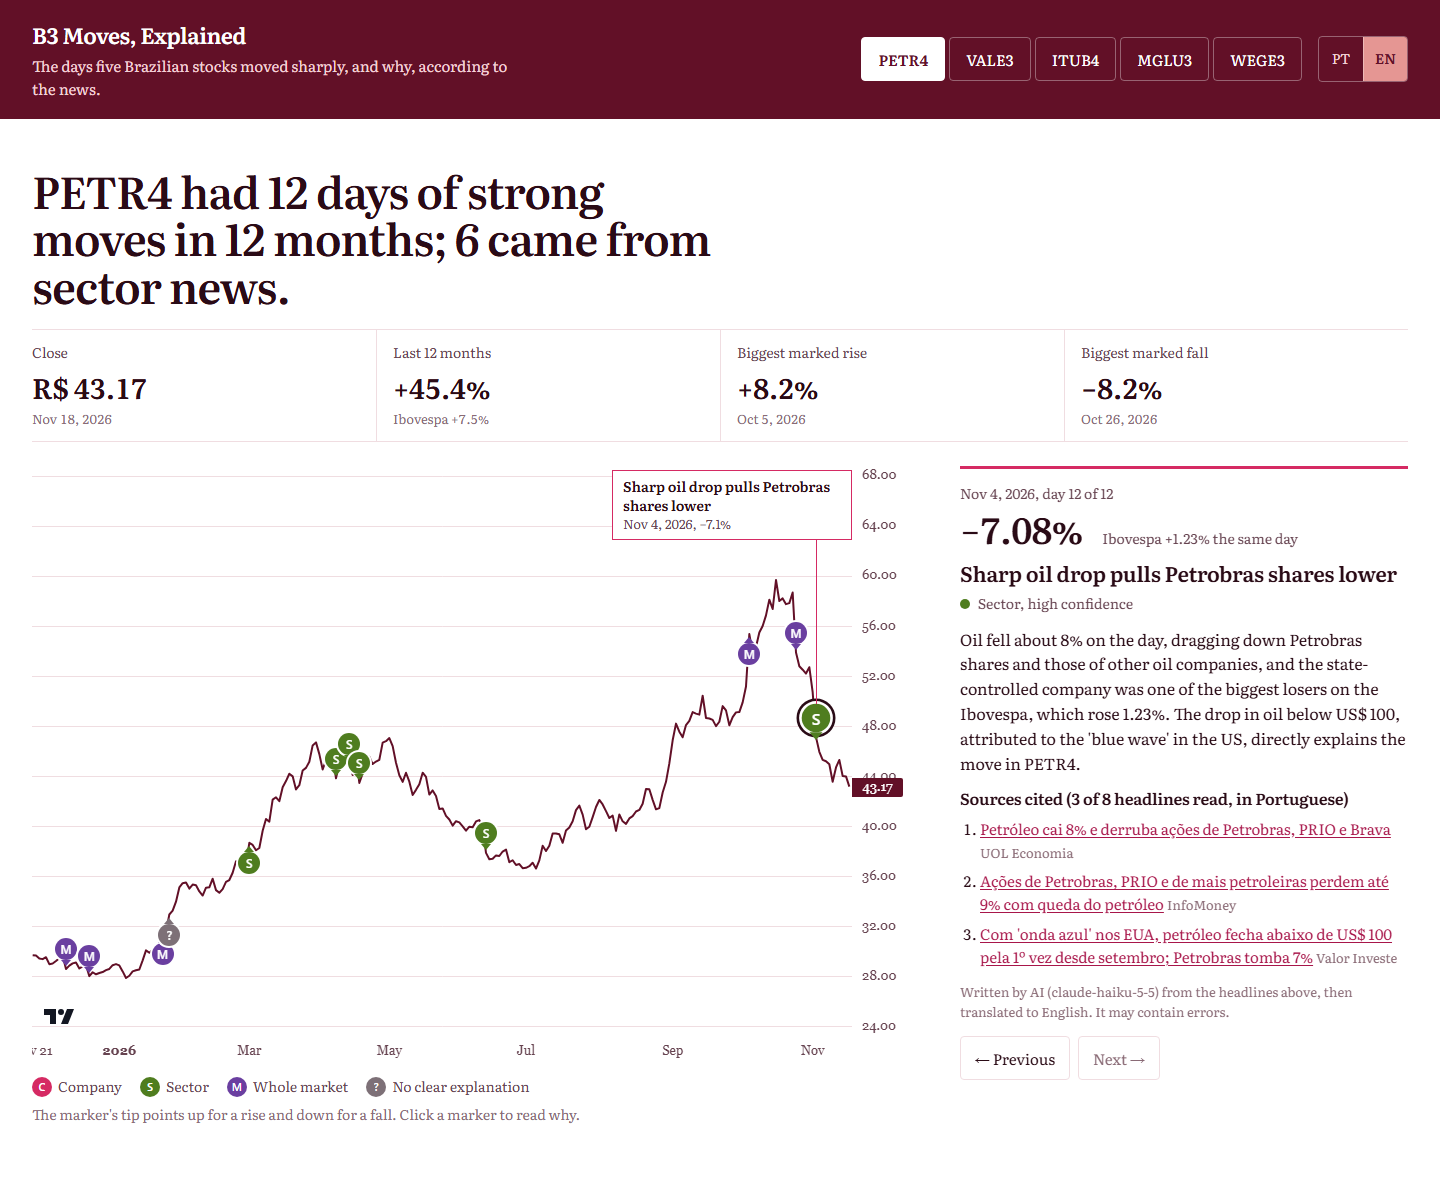
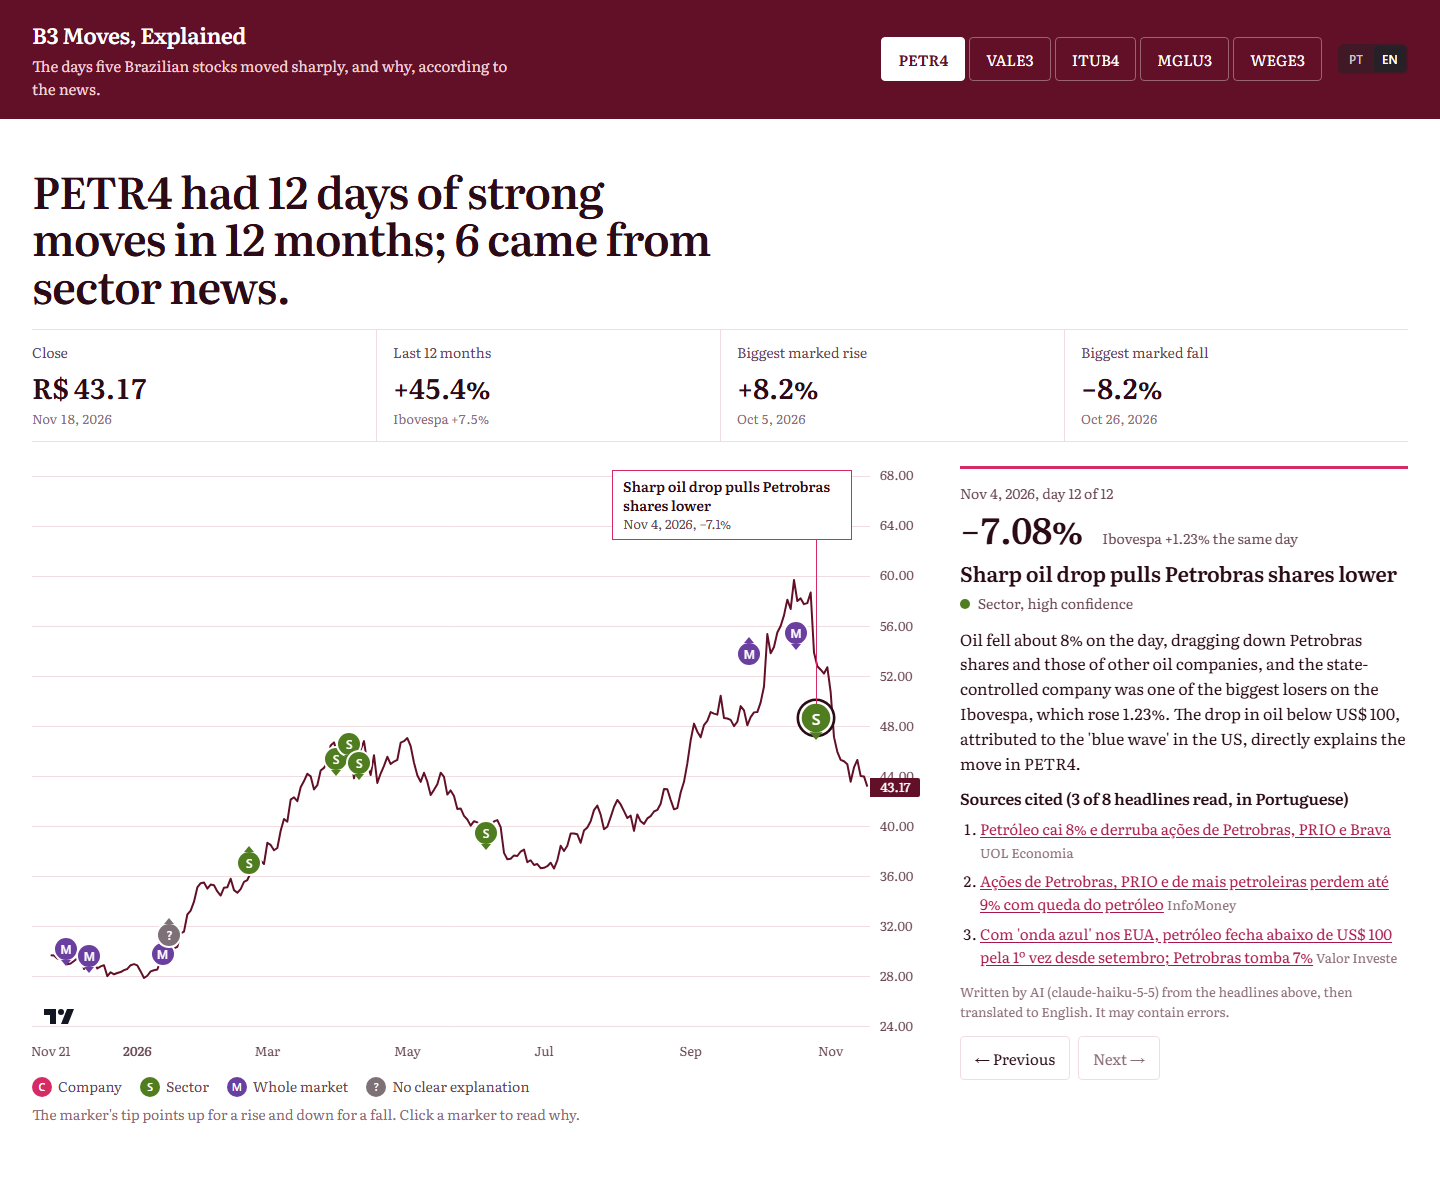
README: refresh screenshots, add stack line, translation script and cache busting

diff --git a/README.md b/README.md
@@ -4,6 +4,8 @@ Daily price charts of five B3 stocks where an AI marks the days with unusually s
 
 **Live site: [English](https://beapama.github.io/b3-explained-chart/?lang=en) · [Português](https://beapama.github.io/b3-explained-chart/?lang=pt)** (one site with a PT | EN switch)
 
+**Built with:** Python, pandas, Claude API (Haiku 5.5, structured output), GitHub Actions, GitHub Pages, plain JavaScript with lightweight-charts.
+
 | Desktop (light, English) | Phone (dark, English) |
 |---|---|
 | ![Desktop view: PETR4 chart with event markers and the explanation panel](docs/screenshot-desktop.png) | ![Phone view in dark mode: MGLU3 chart](docs/screenshot-mobile-dark.png) |
@@ -29,10 +31,10 @@ flowchart TB
 1. **Prices** (`src/prices.py`): daily adjusted prices via `yfinance`, so dividends do not look like crashes.
 2. **Detection** (`src/detect.py`): a day is an event when its return is at least 2.5 standard deviations away from the mean of the previous 60 trading days. Each stock is judged against its own volatility. If the Ibovespa also moved strongly that day in the same direction, the event is tagged as market-wide.
 3. **News** (`src/news.py`): Google News RSS from the previous trading day to the day after (weekend news explains Monday moves). Market-wide events reserve half the slots for market news.
-4. **Explanation** (`src/explain.py`): Claude Haiku 5.5 reads only those headlines and returns validated JSON (Pydantic), in Portuguese and English in the same call. It cites sources **by their number in the list**, and the code maps numbers to links, so it cannot invent a source. If the headlines do not explain the move, it answers "no clear explanation".
+4. **Explanation** (`src/explain.py`): Claude Haiku 5.5 reads only those headlines and returns validated JSON (Pydantic), in Portuguese and English in the same call. It cites sources **by their number in the list**, and the code maps numbers to links, so it cannot invent a source. If the headlines do not explain the move, it answers "no clear explanation". Events explained before the English fields existed were translated once by `src/translate.py`, without re-explaining them, so the evaluated Portuguese text did not change.
 5. **Cache and pipeline** (`src/pipeline.py`): events are cached by (ticker, date), so the API is never called twice for the same event and a rerun is always safe.
 6. **Evaluation** (`src/evaluate.py`): see below.
-7. **Site** (`site/`, built by `src/build_site.py`): one HTML, CSS and JS file reading the JSON, with [lightweight-charts](https://github.com/tradingview/lightweight-charts) pinned to 5.0.9. Portuguese and English from one page (a text dictionary per language, `?lang=en` for direct links); light and dark mode follow the system; it works on phones. News headlines stay in Portuguese, since they are the original sources.
+7. **Site** (`site/`, built by `src/build_site.py`): one HTML, CSS and JS file reading the JSON, with [lightweight-charts](https://github.com/tradingview/lightweight-charts) pinned to 5.0.9. Portuguese and English from one page (a text dictionary per language, `?lang=en` for direct links); light and dark mode follow the system; it works on phones. News headlines stay in Portuguese, since they are the original sources. The build adds a content hash to the CSS and JS links, so browsers never mix a new page with old cached code.
 8. **Automation** (`.github/workflows/update.yml`): Monday to Friday at 22:00 UTC (19:00 in Brasília, about an hour after the close). It runs the pipeline, commits `data/` if anything changed and deploys to GitHub Pages.
 
 ## Evaluation
@@ -74,6 +76,7 @@ cp .env.example .env              # then set ANTHROPIC_API_KEY
 
 python -m src.pipeline --dry-run  # lists new events and the estimated cost, no API calls
 python -m src.pipeline            # prices -> detection -> news -> explanations (cached)
+python -m src.translate --dry-run # English for events explained before the bilingual schema (one-time)
 python -m src.evaluate            # writes data/eval/summary.json
 python -m src.build_site          # assembles _site/
 python -m http.server 8000 -d _site
